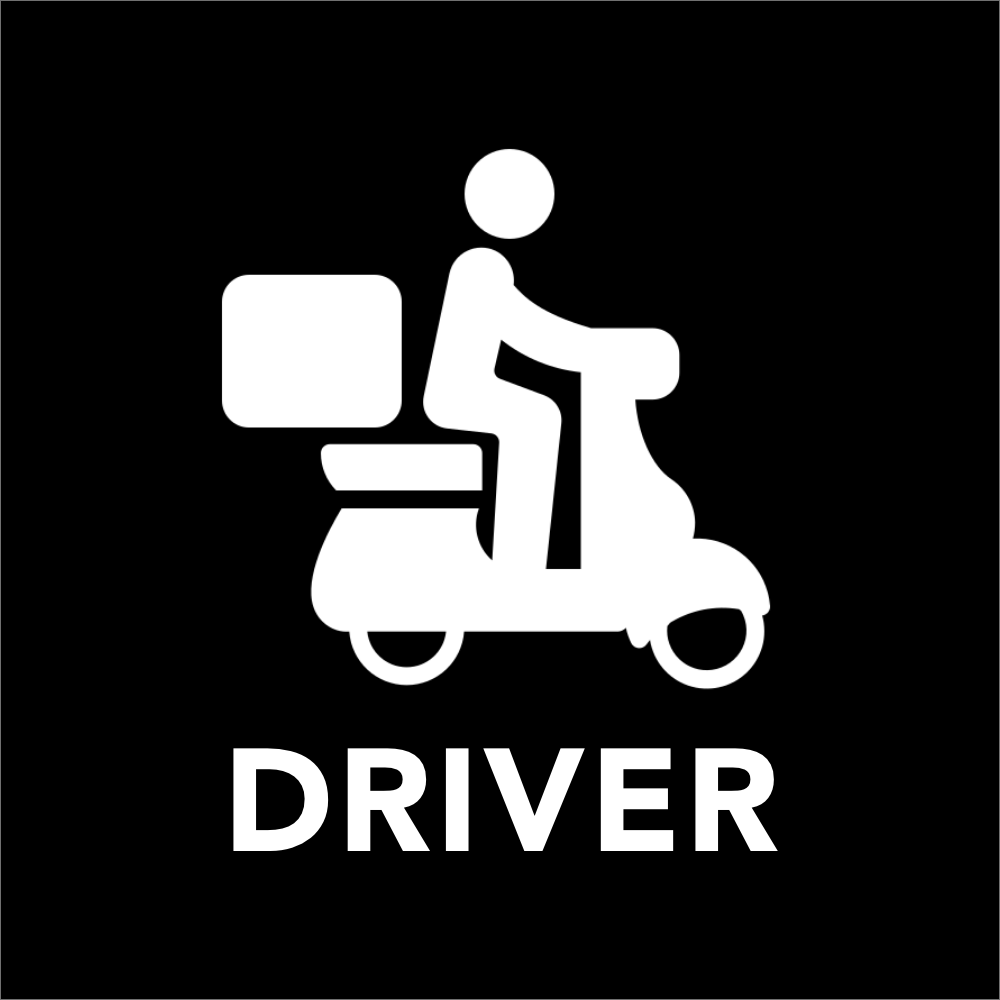
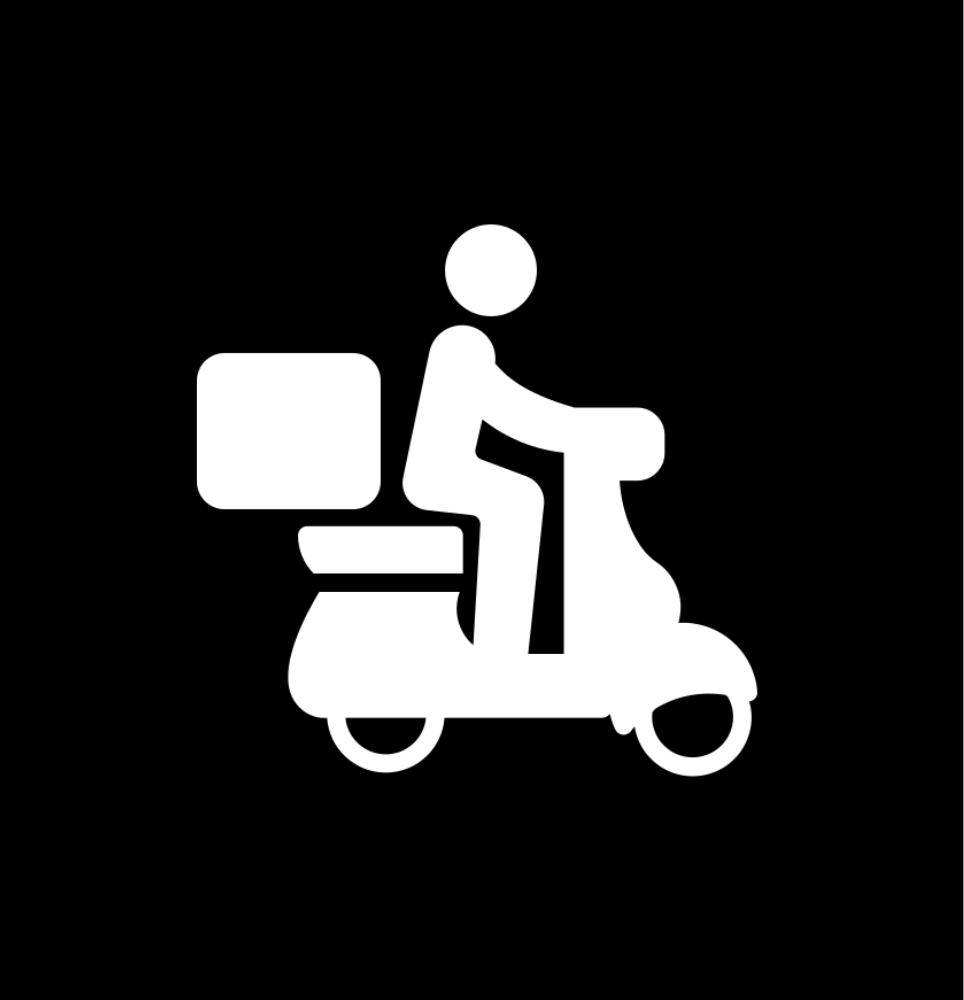
広告設定、アイコン修正

Changed region(s): [[0.1867, 0.124, 0.8091, 0.868], [0.0, 0.0, 1.0, 1.0]]

diff --git a/lib/services/admob.dart b/lib/services/admob.dart
@@ -1,10 +1,12 @@
 import 'package:google_mobile_ads/google_mobile_ads.dart';
+import 'dart:io' show Platform;
 
 class AdmobLoad {
   BannerAd createBarnnerAd(){
     return BannerAd(
         size: AdSize.banner,
-        adUnitId: 'ca-app-pub-8624775791237653/7710222023',
+        adUnitId: Platform.isIOS ? 'ca-app-pub-8624775791237653/7710222023'
+            : 'ca-app-pub-8624775791237653/4702574836',
         listener: BannerAdListener(
             onAdLoaded: (ad){},
             onAdFailedToLoad: (ad,error){
